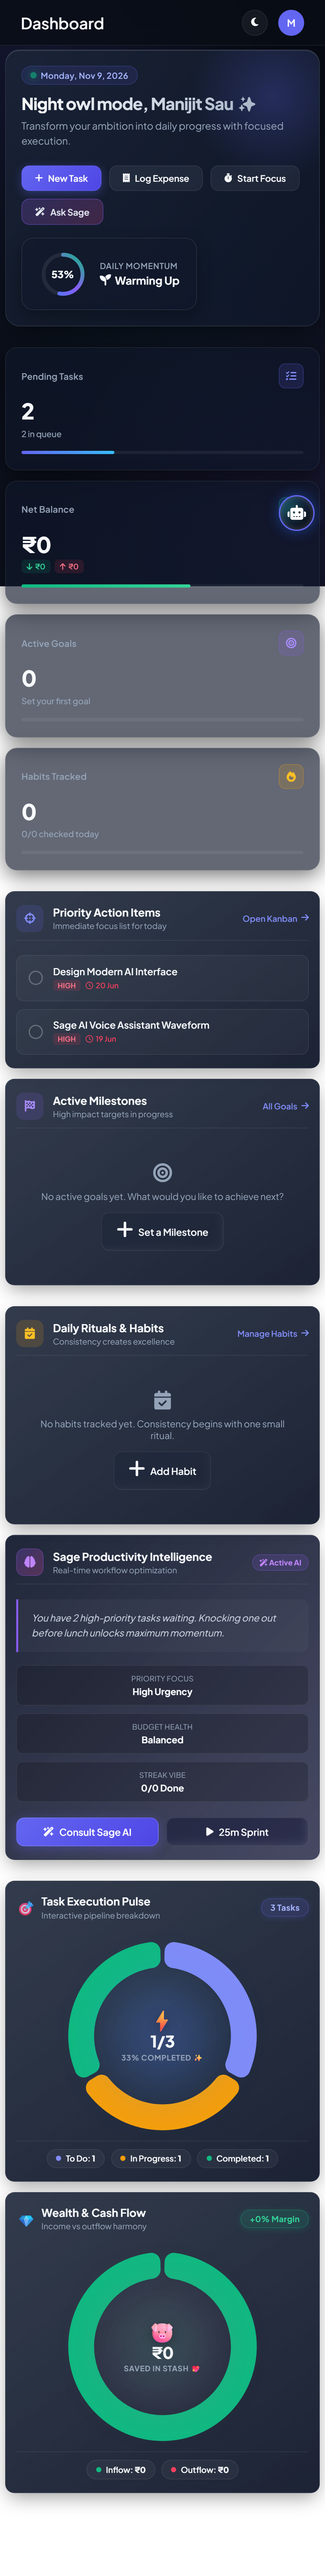
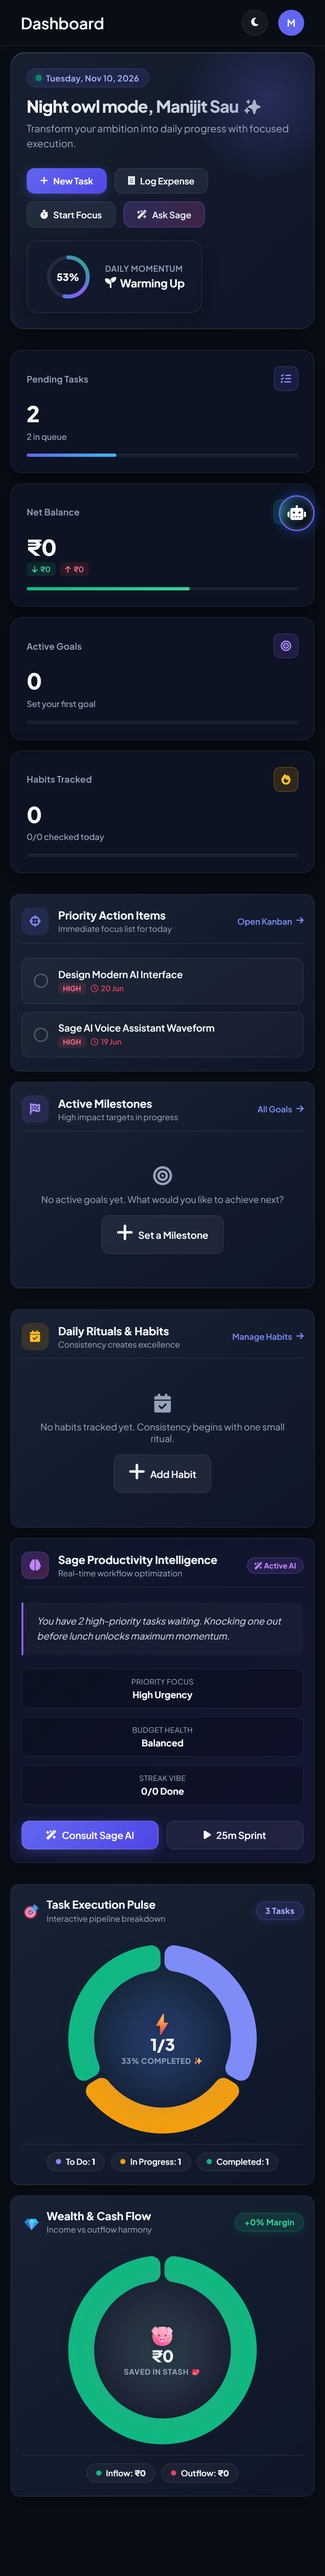
fix: remove haze and white bleed from ProductiveX live preview portal

diff --git a/src/App.tsx b/src/App.tsx
@@ -717,15 +717,15 @@ function ProjectShowcase({ transition }: { transition: Transition }) {
               zIndex: 100,
               pointerEvents: 'none',
             }}
-            className="w-[20vw] min-w-[260px] max-w-[340px] aspect-[4/5] bg-black/95 border border-white/20 rounded-2xl shadow-2xl overflow-hidden backdrop-blur-2xl"
+            className="w-[20vw] min-w-[260px] max-w-[340px] aspect-[4/5] bg-[#0a0d14] border border-white/15 rounded-2xl shadow-[0_25px_60px_-15px_rgba(0,0,0,0.85),0_0_0_1px_rgba(255,255,255,0.08)] overflow-hidden"
           >
             {/* Sleek mini window bar */}
-            <div className="flex items-center justify-between border-b border-white/10 bg-white/[0.04] px-3 py-1.5 text-[11px] font-mono text-white/70 select-none">
+            <div className="flex items-center justify-between border-b border-white/10 bg-white/[0.03] px-3 py-1.5 text-[11px] font-mono text-white/70 select-none">
               <div className="flex items-center gap-2 min-w-0">
                 <div className="flex items-center gap-1 flex-shrink-0">
-                  <span className="h-2 w-2 rounded-full bg-red-500/70" />
-                  <span className="h-2 w-2 rounded-full bg-amber-500/70" />
-                  <span className="h-2 w-2 rounded-full bg-emerald-500/70" />
+                  <span className="h-2 w-2 rounded-full bg-red-500/80" />
+                  <span className="h-2 w-2 rounded-full bg-amber-500/80" />
+                  <span className="h-2 w-2 rounded-full bg-emerald-500/80" />
                 </div>
                 <span className="truncate max-w-[130px] font-medium text-white/90 text-[10.5px]">
                   {hoveredProject.title}
@@ -738,7 +738,7 @@ function ProjectShowcase({ transition }: { transition: Transition }) {
             </div>
 
             {/* The Scrolling "Video" Portal */}
-            <div className="relative h-[calc(100%-29px)] w-full overflow-hidden bg-black/40">
+            <div className="relative h-[calc(100%-29px)] w-full overflow-hidden bg-[#0a0d14]">
               <motion.div
                 key={hoveredProject.title}
                 className="absolute w-full pointer-events-none"
@@ -758,14 +758,11 @@ function ProjectShowcase({ transition }: { transition: Transition }) {
                 <img
                   src={previews[hoveredProject.title]}
                   alt={hoveredProject.title}
-                  className="w-full h-auto object-cover opacity-95 block"
+                  className="w-full h-auto object-cover opacity-100 block"
                   loading="eager"
                   decoding="async"
                 />
               </motion.div>
-              {/* Subtle top & bottom gloss vignette to give realistic device viewport feel */}
-              <div className="pointer-events-none absolute inset-x-0 top-0 h-4 bg-gradient-to-b from-black/50 to-transparent z-10" />
-              <div className="pointer-events-none absolute inset-x-0 bottom-0 h-6 bg-gradient-to-t from-black/70 to-transparent z-10" />
             </div>
           </motion.div>
         )}
